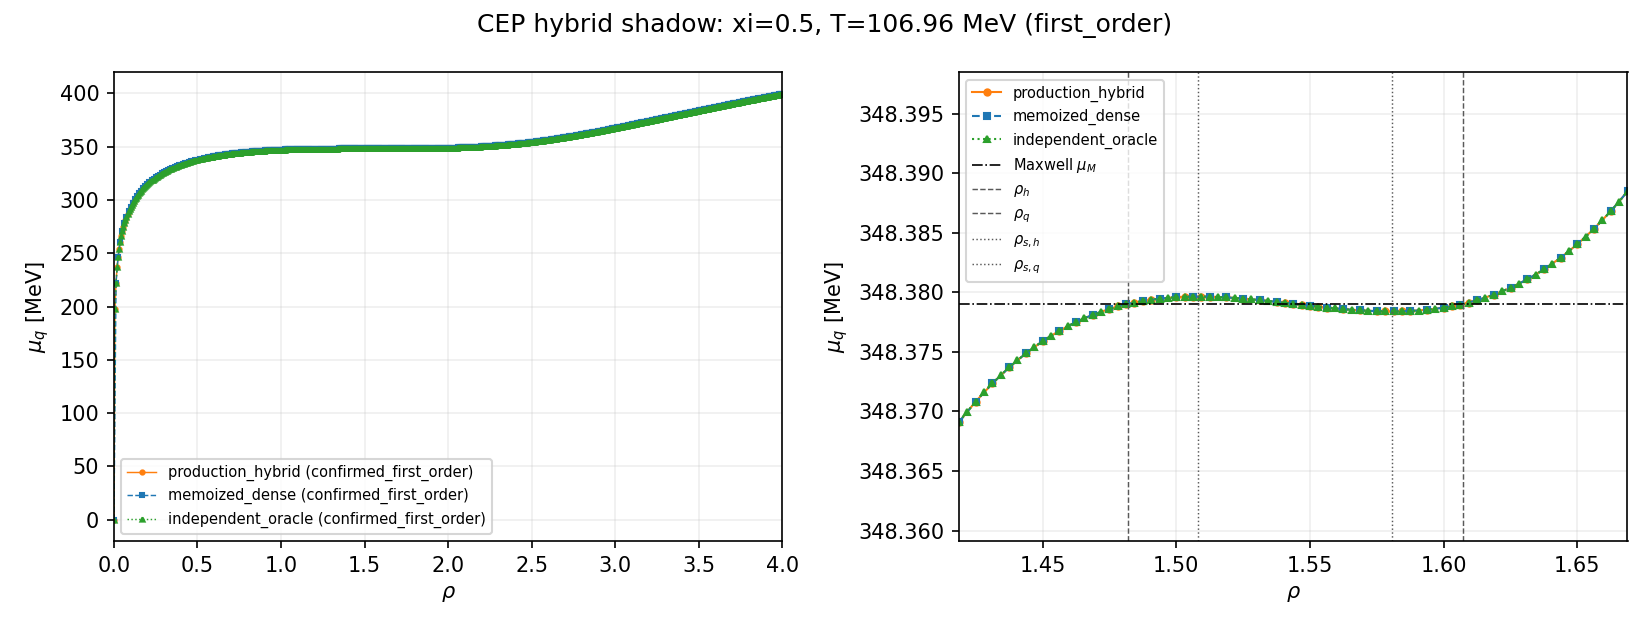
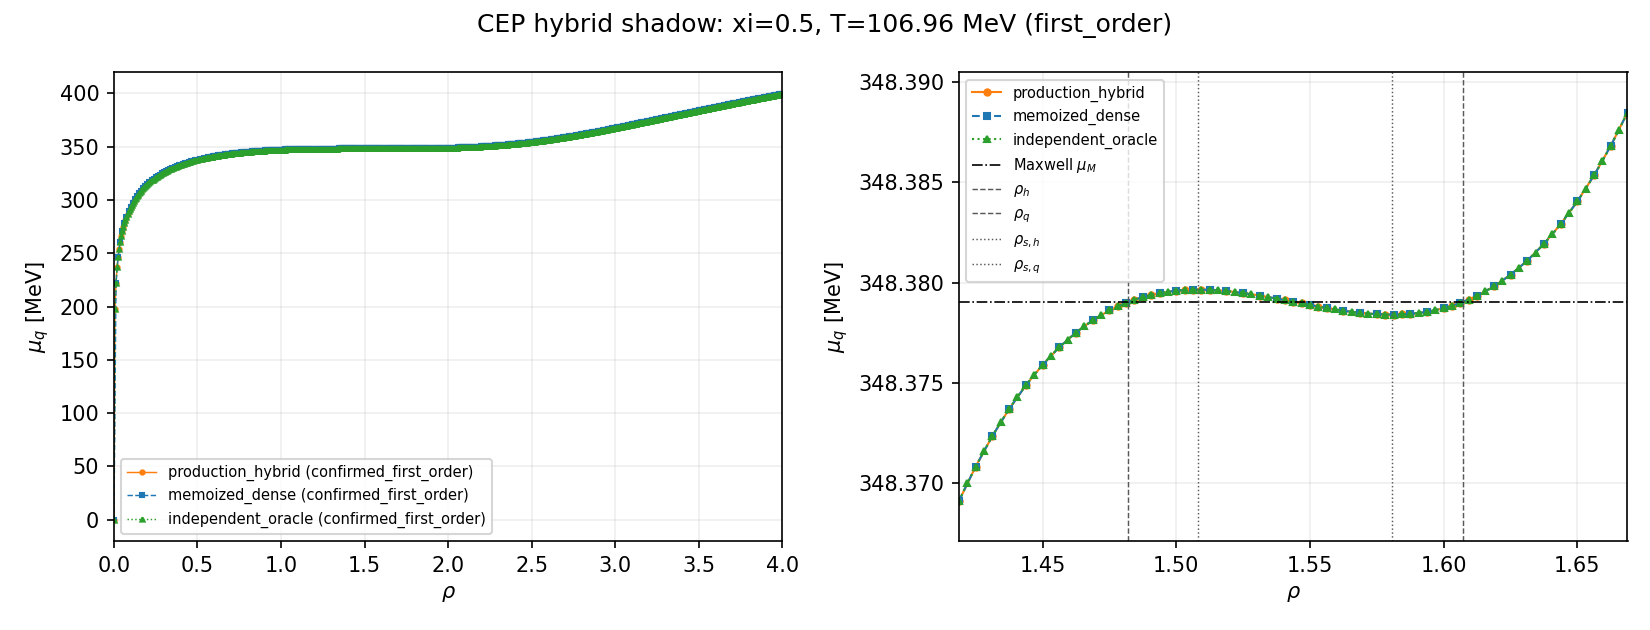
fix: refine endpoint-local shadow plot windows

diff --git a/scripts/analysis/plot_pnjl_cep_hybrid_production_shadow.py b/scripts/analysis/plot_pnjl_cep_hybrid_production_shadow.py
@@ -13,6 +13,9 @@ from pathlib import Path
 METHODS = ("production_hybrid", "memoized_dense", "independent_oracle")
 XIS = ("-0.5", "0.0", "0.5")
 CURVE_T_MATCH_TOL = 1e-6  # trho CSV serializes T to six decimal places
+SMOOTH_SLOPE_QUANTILE = 0.05
+LOCAL_Y_RELATIVE_PADDING = 0.08
+LOCAL_Y_MIN_PADDING_MEV = 0.002
 
 
 def _rows(path: Path) -> list[dict[str, str]]:
@@ -78,6 +81,83 @@ def _bounds(curve_rows: list[dict[str, str]], slice_rows: list[dict[str, str]], 
     return max(0.0, low - padding), min(4.0, high + padding)
 
 
+def _phase_bound_values(slice_rows: list[dict[str, str]], xi: str, temperature: float) -> list[float]:
+    values: list[float] = []
+    for row in slice_rows:
+        if row.get("xi") == xi and row.get("method") == "production_hybrid" and math.isclose(_float(row.get("T_MeV")), temperature, abs_tol=CURVE_T_MATCH_TOL, rel_tol=0.0):
+            for field in ("rho_hadron", "rho_quark", "rho_spinodal_hadron", "rho_spinodal_quark", "support_low", "support_high"):
+                value = _float(row.get(field))
+                if math.isfinite(value):
+                    values.append(value)
+    return values
+
+
+def _quantile(values: list[float], fraction: float) -> float:
+    ordered = sorted(values)
+    if not ordered:
+        return math.nan
+    position = (len(ordered) - 1) * fraction
+    lower = int(position)
+    upper = min(lower + 1, len(ordered) - 1)
+    weight = position - lower
+    return ordered[lower] * (1.0 - weight) + ordered[upper] * weight
+
+
+def _smooth_window(curve_rows: list[dict[str, str]], xi: str, temperature: float) -> tuple[float, float, dict[str, object]]:
+    """Find a display-only smooth window when no physical support exists.
+
+    This route is used for monotone slices only as a visualization aid.  It
+    reads the production curve, never an oracle label, and does not certify a
+    physical state.  The longest contiguous run of the lowest-slope secants is
+    selected so the right panel exposes a representative smooth region.
+    """
+
+    points = sorted(
+        [
+            (_float(row.get("rho")), _float(row.get("muq_MeV")))
+            for row in curve_rows
+            if row.get("method") == "production_hybrid"
+            and row.get("xi") == xi
+            and math.isclose(_float(row.get("T_MeV")), temperature, abs_tol=CURVE_T_MATCH_TOL, rel_tol=0.0)
+        ],
+        key=lambda point: point[0],
+    )
+    points = [(x, y) for x, y in points if math.isfinite(x) and math.isfinite(y)]
+    if len(points) < 4:
+        return 0.0, 4.0, {"smooth_window_status": "insufficient_points"}
+    slopes: list[float] = []
+    for (x0, y0), (x1, y1) in zip(points, points[1:]):
+        if x1 <= x0:
+            slopes.append(math.inf)
+        else:
+            slopes.append(abs((y1 - y0) / (x1 - x0)))
+    finite_slopes = [slope for slope in slopes if math.isfinite(slope)]
+    threshold = _quantile(finite_slopes, SMOOTH_SLOPE_QUANTILE)
+    qualifying = [math.isfinite(slope) and slope <= threshold for slope in slopes]
+    runs: list[tuple[int, int]] = []
+    index = 0
+    while index < len(qualifying):
+        if not qualifying[index]:
+            index += 1
+            continue
+        end = index
+        while end + 1 < len(qualifying) and qualifying[end + 1]:
+            end += 1
+        runs.append((index, end))
+        index = end + 1
+    if not runs:
+        return 0.0, 4.0, {"smooth_window_status": "no_low_slope_run", "smooth_slope_threshold": threshold}
+    start, end = max(runs, key=lambda run: (run[1] - run[0], -run[0]))
+    low, high = points[start][0], points[end + 1][0]
+    return low, high, {
+        "smooth_window_status": "selected",
+        "smooth_window_method": "longest_low_slope_run",
+        "smooth_slope_threshold_MeV_per_rho": threshold,
+        "smooth_slope_quantile": SMOOTH_SLOPE_QUANTILE,
+        "smooth_window_rho": [low, high],
+    }
+
+
 def _local_y_bounds(points: list[tuple[float, float]]) -> tuple[float, float]:
     """Return an independently padded y range for the rho-local panel.
 
@@ -92,7 +172,7 @@ def _local_y_bounds(points: list[tuple[float, float]]) -> tuple[float, float]:
     if len(values) < 2:
         return 0.0, 1.0
     low, high = min(values), max(values)
-    padding = max((high - low) * 0.15, 0.01)
+    padding = max((high - low) * LOCAL_Y_RELATIVE_PADDING, LOCAL_Y_MIN_PADDING_MEV)
     return low - padding, high + padding
 
 
@@ -118,7 +198,14 @@ def _plot_anchor(
     import matplotlib.pyplot as plt
 
     subset = [row for row in curve_rows if row.get("xi") == xi and math.isclose(_float(row.get("T_MeV")), temperature, abs_tol=CURVE_T_MATCH_TOL, rel_tol=0.0)]
-    low, high = _bounds(subset, slice_rows, xi, temperature)
+    phase_values = _phase_bound_values(slice_rows, xi, temperature)
+    if len(phase_values) >= 2:
+        low, high = _bounds(subset, slice_rows, xi, temperature)
+        local_policy = "independent_rho_mu_zoom_with_phase_markers_v2"
+        local_metadata: dict[str, object] = {"smooth_window_status": "not_used"}
+    else:
+        low, high, local_metadata = _smooth_window(subset, xi, temperature)
+        local_policy = "smooth_window_rho_mu_zoom_v1"
     fig, axes = plt.subplots(1, 2, figsize=(11, 4.2), sharey=False)
     styles = {
         "production_hybrid": {"color": "tab:orange", "linestyle": "-", "marker": "o"},
@@ -184,7 +271,8 @@ def _plot_anchor(
         "local_ylim": [local_y_low, local_y_high],
         "local_curve_mu_span_MeV": max((y for _, y in local_points), default=math.nan)
         - min((y for _, y in local_points), default=math.nan),
-        "right_panel_policy": "independent_rho_mu_zoom_with_phase_markers_v2",
+        "right_panel_policy": local_policy,
+        **local_metadata,
     }
 
 
@@ -228,6 +316,7 @@ def main() -> int:
             "full_panel": "rho_0_to_4_with_shared_method_styles",
             "local_panel": "independent_rho_mu_zoom_with_phase_markers_v2",
             "local_y_axis_is_independent": True,
+            "no_support_panel": "smooth_window_rho_mu_zoom_v1",
         },
         "figures": figures,
     }

diff --git a/tests/unit/python/test_plot_pnjl_cep_hybrid_production_shadow.py b/tests/unit/python/test_plot_pnjl_cep_hybrid_production_shadow.py
@@ -26,6 +26,27 @@ def test_local_y_bounds_has_finite_fallback_for_missing_points():
     assert module._local_y_bounds([]) == (0.0, 1.0)
 
 
+def test_smooth_window_uses_longest_low_slope_run_without_phase_labels():
+    module = _module()
+    values = [
+        0.0,
+        10.0,
+        10.5,
+        11.0,
+        11.5,
+        12.0,
+        22.0,
+    ]
+    rows = [
+        {"xi": "0.0", "method": "production_hybrid", "T_MeV": "10.0", "rho": str(index), "muq_MeV": str(mu)}
+        for index, mu in enumerate(values)
+    ]
+    low, high, metadata = module._smooth_window(rows, "0.0", 10.0)
+    assert metadata["smooth_window_status"] == "selected"
+    assert low == 1.0
+    assert high == 5.0
+
+
 def test_slice_row_matches_serialized_temperature():
     module = _module()
     rows = [{"xi": "0.0", "method": "production_hybrid", "T_MeV": "130.9619140625"}]

diff --git a/docs/analysis/pnjl_cep_endpoint_local_production_shadow_v4/AUDIT.md b/docs/analysis/pnjl_cep_endpoint_local_production_shadow_v4/AUDIT.md
@@ -9,6 +9,8 @@
 - 三个 endpoint certificates 的 support envelope 均覆盖初始 left bracket 与 anchor；
 - 代表图的右侧面板使用独立的 `rho–mu` 局部纵轴，并标出 Maxwell/spinodal/coexistence
   位置；该图层修正只改变后处理，不改变原始曲线或数值 gate；
+- 没有有限 Maxwell/spinodal/support 的 monotone 切片使用原始 production 曲线最长低斜率
+  区间作为显示窗口；该窗口不参与物理分类或 gate；
 - gate verdict: `full_hybrid_candidate`；所有 oracle/classification/
   endpoint/coverage/performance errors 为空；
[1 lines of base64/hex data omitted]
